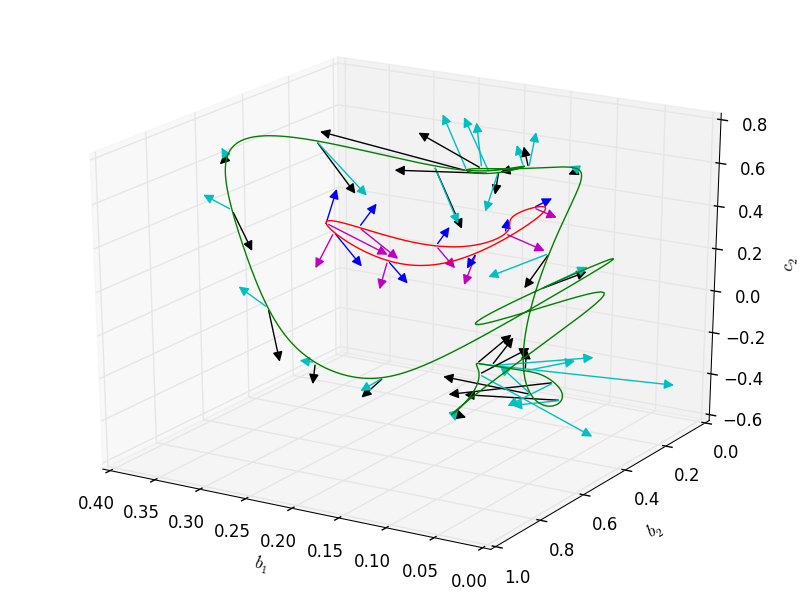
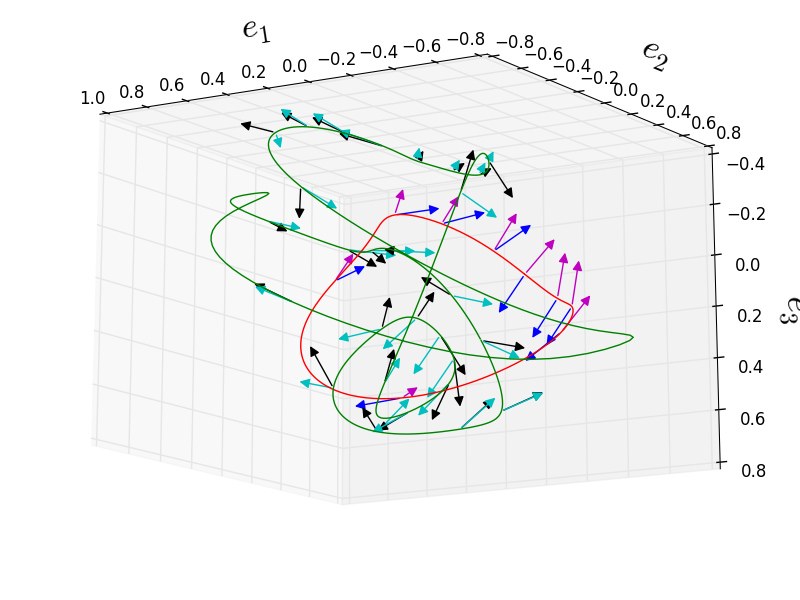
ignore

diff --git a/applications/FloquetVectors/BurakAxes.m b/applications/FloquetVectors/BurakAxes.m
@@ -1,0 +1,146 @@
+addpath('/usr/local/home/xiong/svn/siminos/ksConnected')
+load('/usr/local/home/xiong/svn/siminos/matlab/ruslan/kse22orbits.mat');
+
+epsilon = 1e-4;
+%Function which should be satisfied by an equilibrium: 
+feq = @(eq) vel(eq); %No constraint
+%Function which should be satisfied by a relative equilibrium: 
+ftw = @(tw) [velred(tw); SliceCond(tw)]; %Note that the constraint is the slice
+                                         %condition. 
+eq1 = eq(1).a; %Pick eq2, this is 62 dim vector (solved using 32 modes)
+eq1 = eq1(1:30); %We use 16 modes (first mode is 0, hence real valued state 
+                 %space vector is 30 dimensional                 
+
+eq2 = eq(2).a; %Pick eq2, this is 62 dim vector (solved using 32 modes)
+eq2 = eq2(1:30); %We use 16 modes (first mode is 0, hence real valued state 
+                 %space vector is 30 dimensional
+
+eq3 = eq(3).a; %Pick eq2, this is 62 dim vector (solved using 32 modes)
+eq3 = eq3(1:30); %We use 16 modes (first mode is 0, hence real valued state 
+                 %space vector is 30 dimensional                 
+                 
+tw1 = re(1).a; %Pick tw1, this is 62 dim vector (solved using 32 modes)
+tw1 = tw1(1:30); %We use 16 modes (first mode is 0, hence real valued state 
+                 %space vector is 30 dimensional
+                 
+tw2 = re(2).a; %Pick tw1, this is 62 dim vector (solved using 32 modes)
+tw2 = tw2(1:30); %We use 16 modes (first mode is 0, hence real valued state 
+                 %space vector is 30 dimensional                 
+                 
+tw1 = LieEl(-pi/2)*tw1; %This solution has Re[a_1] = x_1 = 0, we define the 
+tw2 = LieEl(-pi/2)*tw2; %This solution has Re[a_1] = x_1 = 0, we define the 
+eq1 = LieEl(-pi/2)*eq1; %This solution has Re[a_1] = x_1 = 0, we define the 
+                        %slice as y_1 = 0, so we bring the solution onto it                                              
+
+%Since the eq* and tw* from database came from a 32-mode solution, they 
+%yield some numerical errors when we discard 16 modes. So we refine them:
+
+[eq2, fval, info] = fsolve(feq, eq2);
+[eq1, fval, info] = fsolve(feq, eq1); eq1(2) = abs(eq1(2));
+[eq3, fval, info] = fsolve(feq, eq3);
+[tw1, fval, info] = fsolve(ftw, tw1);                        
+[tw2, fval, info] = fsolve(ftw, tw2);
+
+%Unstable direction of eq2:
+Aeq2 = gradV(eq2);
+%Compute stability eigenvectors:
+[V, lambda] = eig(Aeq2);
+lambda=eig(Aeq2); %Stability eigenvalues
+lambdarealsorted = sort(real(lambda), 'descend'); %Sort the real parts of evals
+%Find the place of the most expanding eigenvalue on the list:
+i1 = find(lambdarealsorted(1)==real(lambda)); 
+i1 = i1(1); %Pick one of the complex pair
+v1eq2 = real(V(:, i1)); v1eq2 = v1eq2/norm(v1eq2); %Real part of the most expanding one
+%v1eq2 = imag(V(:, i1)); v1eq2 = v1eq2/norm(v1eq2); %Real part of the most expanding one
+
+eq2Unstable = eq2 + epsilon * v1eq2;
+eq2Unstablehat = x2xhat(eq2Unstable');
+eq2tU = RefReduce4(eq2Unstablehat'); 
+
+
+%Stable direction of eq2:
+%Find the place of the least stable eigenvalue on the list:
+i3 = find(lambdarealsorted(4)==real(lambda));
+i3 = i3(1);
+% The stable vector:
+v3eq2 = real(V(:, i3)); v3eq2 = v3eq2/norm(v3eq2);
+
+eq2Stable = eq2 + epsilon * v3eq2;
+eq2Stablehat = x2xhat(eq2Stable');
+eq2tS = RefReduce4(eq2Stablehat'); 
+
+%Unstable direction of eq3:
+Aeq3 = gradV(eq3);
+%Compute stability eigenvectors:
+[V, lambda] = eig(Aeq3);
+lambda=eig(Aeq3); %Stability eigenvalues
+lambdarealsorted = sort(real(lambda), 'descend'); %Sort the real parts of evals
+%Find the place of the most unstable eigenvalue on the list:
+i1 = find(lambdarealsorted(1)==real(lambda));
+i1 = i1(1)
+vUnstableEq3 = real(V(:, i1)); vUnstableEq3 = vUnstableEq3/norm(vUnstableEq3);
+i2 = find(lambdarealsorted(2)==real(lambda));
+i2 = i2(1)
+vUnstable2Eq3 = real(V(:, i2)); vUnstable2Eq3 = vUnstable2Eq3/norm(vUnstable2Eq3);
+
+%Stable direction of eq3:
+%Find the place of the least stable eigenvalue on the list:
+
+i5 = find(lambdarealsorted(5)==real(lambda));
+i5 = i5(1);
+% The stable vector:
+vStableEq3 = real(V(:, i5)); vStableEq3 = vStableEq3/norm(vStableEq3);
+
+i7 = find(lambdarealsorted(7)==real(lambda));
+i7 = i7(1);
+% The stable vector:
+vStable2Eq3 = real(V(:, i7)); vStable2Eq3 = vStable2Eq3/norm(vStable2Eq3);
+
+
+eq3Unstable = eq3 + epsilon * vUnstableEq3;
+eq3Unstablehat = x2xhat(eq3Unstable');
+eq3tU = RefReduce4(eq3Unstablehat'); 
+
+eq3Unstable2 = eq3 + epsilon * vUnstable2Eq3;
+eq3Unstablehat2 = x2xhat(eq3Unstable2');
+eq3tU2 = RefReduce4(eq3Unstablehat2'); 
+
+eq3Stable = eq3 + epsilon * vStableEq3;
+eq3Stablehat = x2xhat(eq3Stable');
+eq3tS = RefReduce4(eq3Stablehat'); 
+
+eq3Stable2 = eq3 + epsilon * vStable2Eq3;
+eq3Stablehat2 = x2xhat(eq3Stable2');
+eq3tS2 = RefReduce4(eq3Stablehat2'); 
+
+eq1t = RefReduce4(eq1); 
+eq2t = RefReduce4(eq2); 
+eq3t = RefReduce4(eq3); 
+tw1t = RefReduce4(tw1); 
+tw2t = RefReduce4(tw2); 
+
+% Projection bases:
+
+origin = eq2tS;
+e1 = eq3tS - origin;
+e2 = eq3tS2 - origin;
+e3 = eq2tU - origin;
+e4 = tw1t - origin;
+
+% Gram-Schmidt:
+
+e1 = e1 / norm(e1);
+e2 = e2 - dot(e1,e2) * e1; e2 = e2 / norm(e2);
+e3 = e3 - dot(e1, e3) * e1 - dot(e2, e3) * e2; e3 = e3 / norm(e3);
+e4 = e4 - dot(e1, e4) * e1 - dot(e2, e4) * e2 - dot(e3, e4) * e3; e4 = e4 / norm(e4);
+ee = [e1'; e2'; e3'; e1'; e2'; e4'];
+
+eq1proj = ee * (eq1t - origin);
+eq2sproj = ee * (eq2tS - origin);
+eq2uproj = ee * (eq2tU - origin);
+eq3s1proj = ee * (eq3tS - origin);
+eq3u1proj = ee * (eq3tU - origin);
+eq3s2proj = ee * (eq3tS2 - origin);
+eq3u2proj = ee * (eq3tU2 - origin);
+tw1proj = ee * (tw1t - origin);
+tw2proj = ee * (tw2t - origin);

diff --git a/applications/FloquetVectors/plotPoFv.py b/applications/FloquetVectors/plotPoFv.py
@@ -3,6 +3,7 @@ import numpy as np
 from numpy.linalg import norm
 import matplotlib.pyplot as plt
 from mpl_toolkits.mplot3d import Axes3D
+import scipy.io as sio
 # from IPython.display import display
 # from IPython.html.widgets import interact
 from py_ks import *
@@ -152,20 +153,27 @@ if case == 4:
     aaTilde2 = ks2.reduceReflection(aaHat2)
     veTilde2 = ks2.reflectVeAll(vep2, aaHat2, 0)
 
+    # load Burak's axes.
+    # comment out this part if using Fourier modes projection
+    ee = sio.loadmat('ee.mat')['ee'][:3].T
+    aaTilde1 = np.dot(aaTilde1, ee)
+    veTilde1 = np.dot(veTilde1, ee)
+    aaTilde2 = np.dot(aaTilde2, ee)
+    veTilde2 = np.dot(veTilde2, ee)
     i1 = 0
-    i2 = 2
-    i3 = 3
+    i2 = 1
+    i3 = 2
 
     fig = plt.figure(figsize=(8, 6))
     ax = fig.add_subplot(111, projection='3d')
     ax.plot(aaTilde1[:, i1], aaTilde1[:, i2], aaTilde1[:, i3], 'r')
     ax.plot(aaTilde2[:, i1], aaTilde2[:, i2], aaTilde2[:, i3], 'g')
 
-    spa = 70
+    spa = 60
 
     ratio1 = 5
     ah1 = aaTilde1
-    veIndex1 = 2
+    veIndex1 = 0
     nor1 = norm(veTilde1[veIndex1::30], axis=1)
     nor1.resize((nor1.size, 1))
     ae1r = ah1 + veTilde1[veIndex1::30] / nor1 / ratio1
@@ -174,9 +182,9 @@ if case == 4:
     nor1.resize((nor1.size, 1))
     ae1i = ah1 + veTilde1[veIndex1::30] / nor1 / ratio1
 
-    ratio2 = 3
+    ratio2 = 5
     ah2 = aaTilde2
-    veIndex2 = 2
+    veIndex2 = 0
     nor2 = norm(veTilde2[veIndex2::30], axis=1)
     nor2.resize((nor2.size, 1))
     ae2r = ah2 + veTilde2[veIndex2::30] / nor2 / ratio2
@@ -190,24 +198,24 @@ if case == 4:
                      [ah1[i, i3], ae1r[i, i3]],
                      mutation_scale=20, lw=1.0, arrowstyle="-|>", color="m")
         ax.add_artist(a1)
-        # a1 = Arrow3D([ah1[i, i1], ae1i[i, i1]], [ah1[i, i2], ae1i[i, i2]],
-        #              [ah1[i, i3], ae1i[i, i3]],
-        #              mutation_scale=20, lw=1.0, arrowstyle="-|>", color="b")
-        # ax.add_artist(a1)
+        a1 = Arrow3D([ah1[i, i1], ae1i[i, i1]], [ah1[i, i2], ae1i[i, i2]],
+                     [ah1[i, i3], ae1i[i, i3]],
+                     mutation_scale=20, lw=1.0, arrowstyle="-|>", color="b")
+        ax.add_artist(a1)
 
     for i in np.arange(0, aaTilde2.shape[0], spa):
         a2 = Arrow3D([ah2[i, i1], ae2r[i, i1]], [ah2[i, i2], ae2r[i, i2]],
                      [ah2[i, i3], ae2r[i, i3]],
                      mutation_scale=20, lw=1.0, arrowstyle="-|>", color="k")
         ax.add_artist(a2)
-        # a2 = Arrow3D([ah2[i, i1], ae2i[i, i1]], [ah2[i, i2], ae2i[i, i2]],
-        #              [ah2[i, i3], ae2i[i, i3]],
-        #              mutation_scale=20, lw=1.0, arrowstyle="-|>", color="c")
-        # ax.add_artist(a2)
+        a2 = Arrow3D([ah2[i, i1], ae2i[i, i1]], [ah2[i, i2], ae2i[i, i2]],
+                     [ah2[i, i3], ae2i[i, i3]],
+                     mutation_scale=20, lw=1.0, arrowstyle="-|>", color="c")
+        ax.add_artist(a2)
 
-    ax.set_xlabel(r'$b_1$')
-    ax.set_ylabel(r'$b_2$')
-    ax.set_zlabel(r'$c_2$')
+    ax.set_xlabel(r'$e_1$', fontsize=25)
+    ax.set_ylabel(r'$e_2$', fontsize=25)
+    ax.set_zlabel(r'$e_3$', fontsize=25)
     plt.tight_layout(pad=0)
     plt.show(block=False)
 
